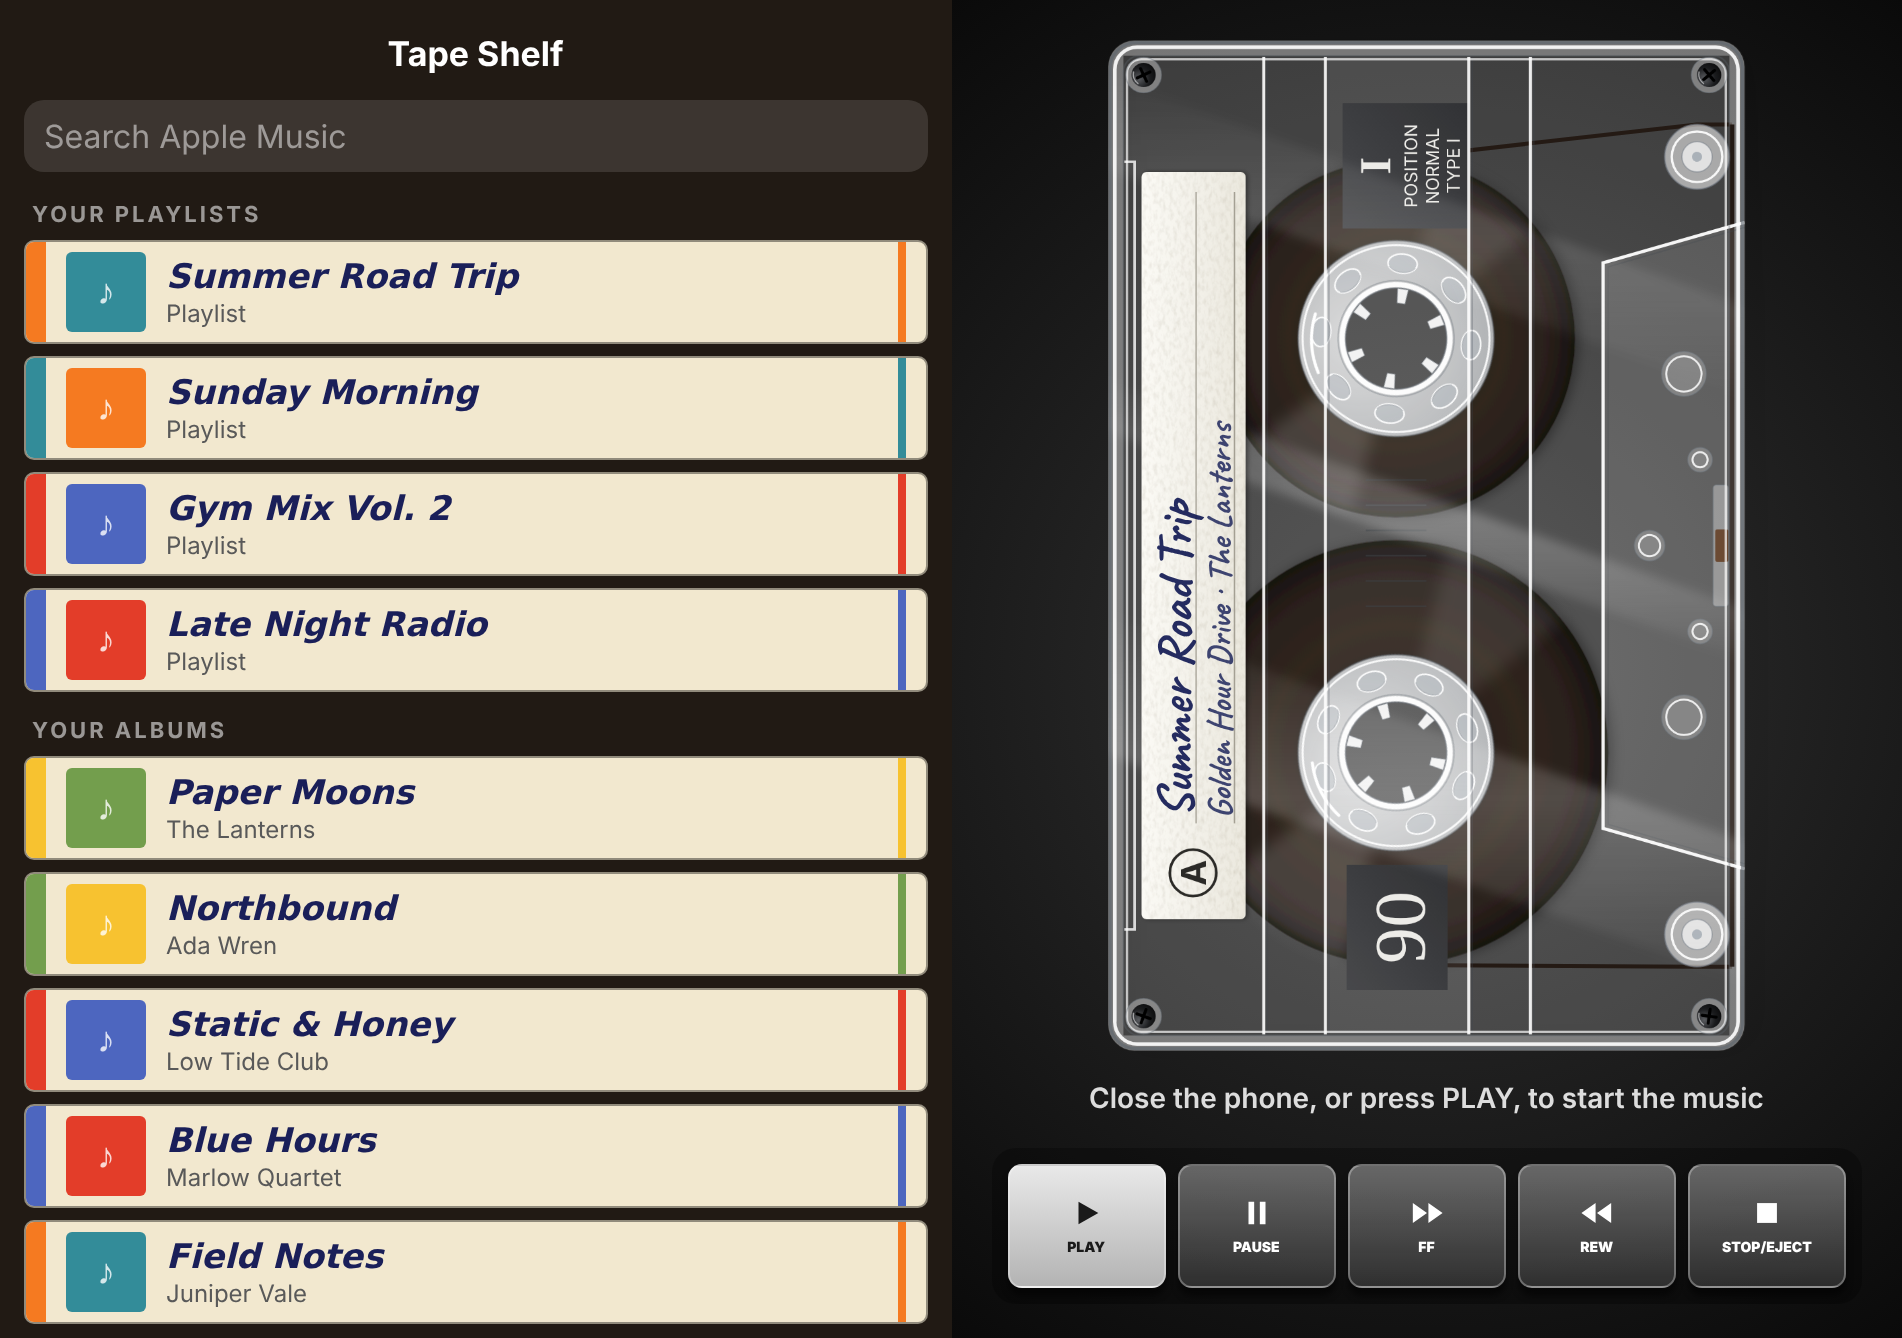
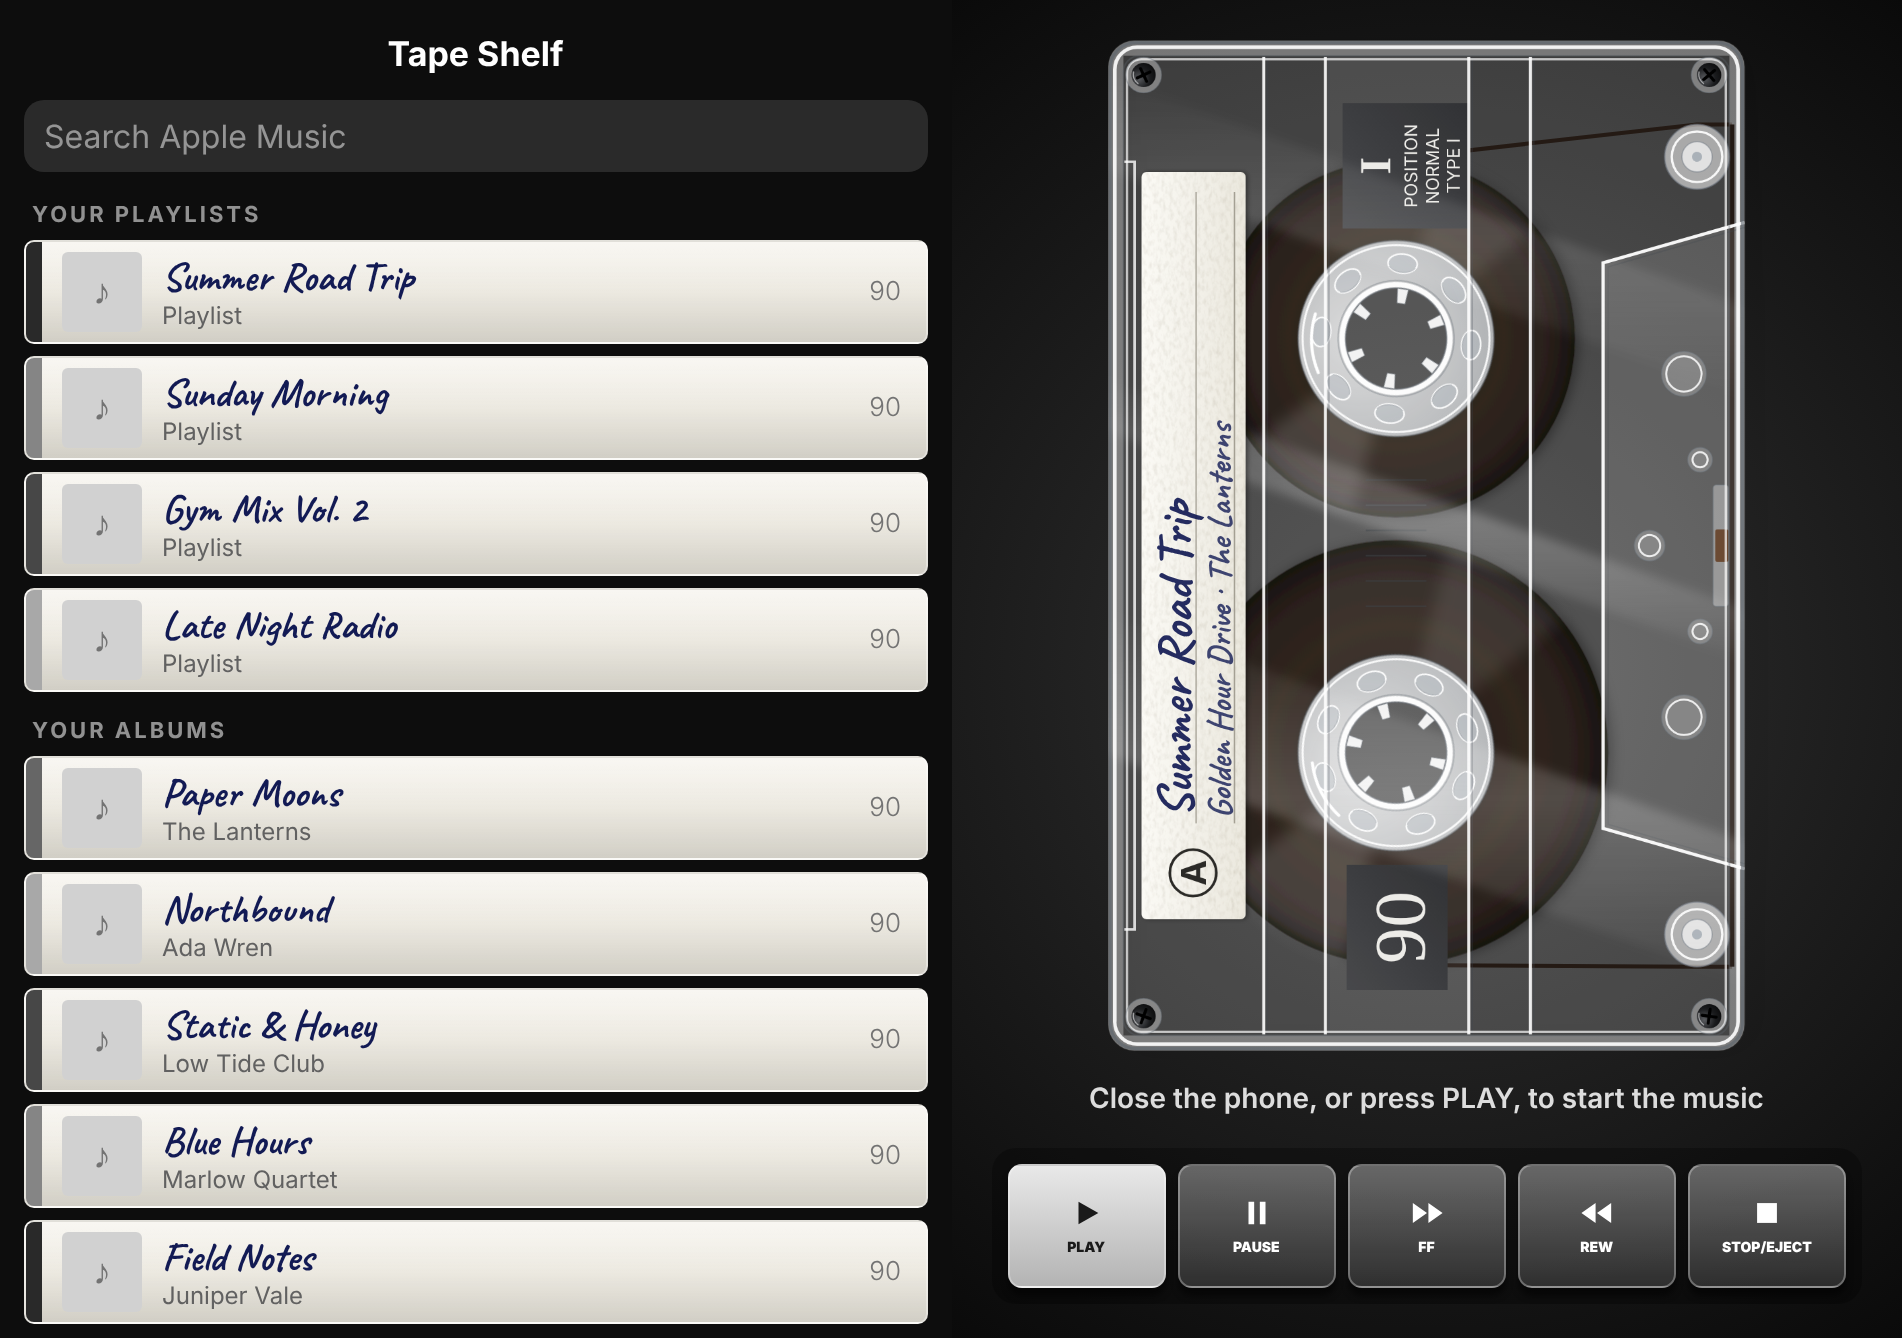
Restyle the tape shelf in neutral tones
Spines are off-white cards with handwritten names and grey bands on a
near-black shelf. The orange button style and accent colour are replaced
with plain light ones.

Claude-Session: https://claude.ai/code/session_015CNmSEpanpmujmbPK8yXHv

Changed region(s): [[0.0, 0.5516, 0.4963, 1.0], [0.0, 0.1532, 0.4963, 0.5209]]

diff --git a/TapeDeck/ShelfView.swift b/TapeDeck/ShelfView.swift
@@ -34,7 +34,7 @@ struct ShelfView: View {
             }
             .navigationTitle("Tape Shelf")
             .navigationBarTitleDisplayMode(.inline)
-            .background(Color(red: 0.13, green: 0.10, blue: 0.08).ignoresSafeArea())
+            .background(Color(white: 0.05).ignoresSafeArea())
         }
     }
 
@@ -96,7 +96,7 @@ struct ShelfView: View {
             Button(action: action) {
                 Text(button).padding(.horizontal, 18).padding(.vertical, 10)
             }
-            .buttonStyle(OrangeButtonStyle())
+            .buttonStyle(PlainKeyButtonStyle())
         }
         .foregroundColor(.white)
         .padding(32)
@@ -104,56 +104,65 @@ struct ShelfView: View {
     }
 }
 
-/// A cassette seen edge on, as it sits on a shelf.
+/// A cassette in its case, seen edge on as it sits on a shelf: a paper spine
+/// card behind clear plastic, in greys and off-white like the rest of the app.
 struct TapeSpine: View {
     let tape: Tape
 
-    private static let stripes: [Color] = [
-        Color(red: 0.96, green: 0.48, blue: 0.13),
-        Color(red: 0.89, green: 0.24, blue: 0.16),
-        Color(red: 0.97, green: 0.76, blue: 0.19),
-        Color(red: 0.20, green: 0.55, blue: 0.60),
-        Color(red: 0.30, green: 0.40, blue: 0.75),
-        Color(red: 0.45, green: 0.62, blue: 0.30)
+    private static let bands: [Color] = [
+        Color(white: 0.16), Color(white: 0.28), Color(white: 0.40), Color(white: 0.52), Color(white: 0.66)
     ]
+    private let ink = Color(red: 0.07, green: 0.10, blue: 0.33)
 
-    /// The same tape always gets the same stripe.
-    private var stripe: Color {
+    /// The same tape always gets the same shade of band.
+    private var band: Color {
         let sum = tape.id.unicodeScalars.reduce(0) { ($0 + Int($1.value)) % 9973 }
-        return Self.stripes[sum % Self.stripes.count]
+        return Self.bands[sum % Self.bands.count]
     }
 
     var body: some View {
         HStack(spacing: 10) {
-            stripe.frame(width: 10)
+            band.frame(width: 8)
             Group {
                 if let artwork = tape.artwork {
                     ArtworkImage(artwork, width: 40, height: 40)
                 } else {
                     Image(systemName: "music.note")
-                        .foregroundColor(Color(white: 0.4))
+                        .foregroundColor(Color(white: 0.45))
                         .frame(width: 40, height: 40)
-                        .background(Color(white: 0.85))
+                        .background(Color(white: 0.82))
                 }
             }
             .clipShape(RoundedRectangle(cornerRadius: 3))
-            VStack(alignment: .leading, spacing: 1) {
+            VStack(alignment: .leading, spacing: 0) {
                 Text(tape.title)
-                    .font(.custom("MarkerFelt-Wide", size: 17))
-                    .foregroundColor(Color(red: 0.10, green: 0.12, blue: 0.35))
+                    .font(.custom("BradleyHandITCTT-Bold", size: 18))
+                    .foregroundColor(ink.opacity(0.92))
                 Text(tape.subtitle)
                     .font(.system(size: 12))
-                    .foregroundColor(Color(white: 0.35))
+                    .foregroundColor(Color(white: 0.38))
             }
             .lineLimit(1)
             Spacer(minLength: 0)
-            stripe.frame(width: 4)
+            Text("90")
+                .font(.system(size: 13, weight: .light))
+                .foregroundColor(Color(white: 0.45))
         }
-        .padding(.trailing, 10)
+        .padding(.trailing, 12)
         .frame(height: 52)
-        .background(Color(red: 0.95, green: 0.91, blue: 0.81))
+        .background(
+            LinearGradient(colors: [Color(red: 0.96, green: 0.95, blue: 0.92),
+                                    Color(red: 0.89, green: 0.88, blue: 0.84)],
+                           startPoint: .top, endPoint: .bottom)
+        )
+        // Light on the clear case over the card
+        .overlay(
+            LinearGradient(colors: [Color.white.opacity(0.35), .clear, Color.black.opacity(0.08)],
+                           startPoint: .top, endPoint: .bottom)
+                .allowsHitTesting(false)
+        )
         .clipShape(RoundedRectangle(cornerRadius: 5))
-        .overlay(RoundedRectangle(cornerRadius: 5).strokeBorder(Color.black.opacity(0.4), lineWidth: 1))
+        .overlay(RoundedRectangle(cornerRadius: 5).strokeBorder(Color.white.opacity(0.35), lineWidth: 1))
         .contentShape(Rectangle())
     }
 }

diff --git a/TapeDeck/DeckView.swift b/TapeDeck/DeckView.swift
@@ -411,17 +411,19 @@ struct ClearButtonStyle: ButtonStyle {
     }
 }
 
-struct OrangeButtonStyle: ButtonStyle {
+/// A plain light button, for the few places that need an ordinary one.
+struct PlainKeyButtonStyle: ButtonStyle {
     func makeBody(configuration: Configuration) -> some View {
         configuration.label
             .font(.system(size: 14, weight: .bold))
-            .foregroundColor(.white)
+            .foregroundColor(Color(white: 0.10))
             .background(
-                RoundedRectangle(cornerRadius: 7)
-                    .fill(Color(red: 0.96, green: 0.48, blue: 0.13))
+                RoundedRectangle(cornerRadius: 9)
+                    .fill(LinearGradient(colors: [Color(white: 0.96), Color(white: 0.76)],
+                                         startPoint: .top, endPoint: .bottom))
                     .brightness(configuration.isPressed ? -0.15 : 0)
             )
-            .overlay(RoundedRectangle(cornerRadius: 7).strokeBorder(Color.black.opacity(0.35), lineWidth: 1))
+            .overlay(RoundedRectangle(cornerRadius: 9).strokeBorder(Color.black.opacity(0.35), lineWidth: 1))
             .offset(y: configuration.isPressed ? 2 : 0)
     }
 }

diff --git a/README.md b/README.md
@@ -9,7 +9,7 @@ A cassette player for Apple Music. Your playlists and albums are tapes on a shel
 * Built for the iPhone Duo's outer display, 466 x 678 points. iOS reserves an 84 point column down one side for the camera, clock and status icons; four large keys (play/pause, fast forward, rewind, stop/eject) and two small ones for sound effects and the tape shelf sit in that column underneath them. On other phones the keys get their own strip. Volume is on the phone's own buttons.
 * Haptics: a firm tap when a key goes down, a lighter one when it springs back, a heavy thud for the cassette door, and a soft pulse four times a second while the tape winds.
 * The cassette is a clear one. The shell front is see-through artwork (bright moulded edges and ridges, stickers, a stick-on paper label, guide rollers, black screws, reflections). Under it the whole reels, their clear hubs, the tape running down to the rollers and the handwriting on the label are drawn live. The artwork source is `tools/cassette-art.html`; `node tools/render-art.js` re-renders it.
-* Open phone (a large, wide screen): the tape shelf on the left and the chosen tape on the right. Pick a tape, then close the phone to start it playing. The keys are there too, for screens that cannot fold.
+* Open phone (a large, wide screen): the tape shelf on the left and the chosen tape on the right. The shelf shows each playlist and album as a cassette spine: an off-white card with the name handwritten on it and a grey band. Pick a tape, then close the phone to start it playing. The keys are there too, for screens that cannot fold.
 * The reels behave like a real tape. The left pack shrinks and the right one grows as the track plays, and each reel turns at the rate its pack size calls for.
 * Keys: REW and FF skip a track on a tap and wind the tape on a hold. PLAY and PAUSE latch down. STOP stops, and a second press ejects.
 * Lock screen tape: while a tape is in the deck, a Live Activity shows the same clear cassette on the lock screen (and its reels in the Dynamic Island) with previous, play / pause and next keys. The hubs step round once a second, because iOS does not allow free running animation there. A tape left paused for ten minutes is taken off the lock screen.
